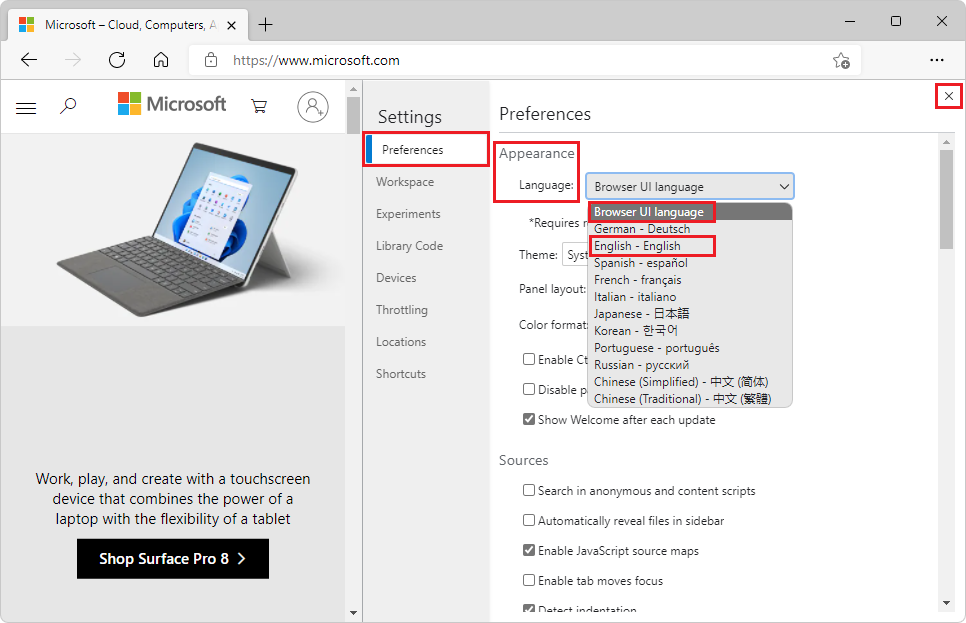
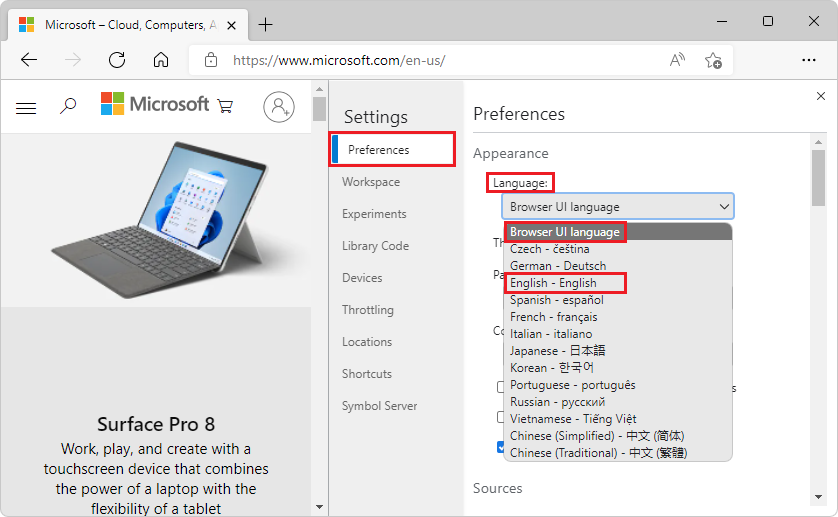
Incorp rvw cmts

diff --git a/microsoft-edge/devtools-guide-chromium/whats-new/2022/03/devtools-100.md b/microsoft-edge/devtools-guide-chromium/whats-new/2022/03/devtools-100.md
@@ -22,7 +22,7 @@ To report a problem with DevTools or ask for a new feature, file an issue at the
 <!-- Title: Head to the new DevTools repo on GitHub to send ideas, feedback, suggestions, and bugs -->
 <!-- Subtitle: You can file feedback, ask questions, and have discussions about DevTools in our GitHub repo. -->
 
-We're excited to announce the new [MicrosoftEdge/DevTools: Feedback and discussions about Microsoft Edge Developer Tools (github.com)](https://github.com/MicrosoftEdge/DevTools) repo on GitHub!  This new repo is a place for our community of developers to send us ideas, feedback, suggestions, and tips to improve DevTools. We're eager to discuss with you how DevTools can better serve your needs and meet the challenges you face every day in building great web experiences.
+We're excited to announce the new [MicrosoftEdge/DevTools](https://github.com/MicrosoftEdge/DevTools) repo on GitHub!  This new repo is a place for our community of developers to send us ideas, feedback, suggestions, and tips to improve DevTools. We're eager to discuss with you how DevTools can better serve your needs and meet the challenges you face every day in building great web experiences.
 
 ![The DevTools feedback repo.](devtools-100-images/devtools-feedback-repo.png)
 
@@ -61,7 +61,7 @@ For more information, see [Change DevTools language settings](../../../customize
 <!-- Title: You no longer have to wonder if a request was fulfilled by your service worker or cache -->
 <!-- Subtitle: The "Fulfilled by" column in the Network tool tells you how a request was fulfilled. -->
 
-In Microsoft Edge 100, the **Network** tool supports a new, **Fulfilled by** column in the request log.  The **Fulfilled by** column shows how a request was fulfilled.  If the request was fulfilled by your service worker or from the cache, that information is now tracked in the **Fulfilled by** column.  When exporting or importing the request log as a HAR file, the information in the **Fulfilled by** column is also included.
+In Microsoft Edge 100, the **Network** tool supports a new **Fulfilled by** column in the request log.  If the request was fulfilled by your service worker or from the cache, that information is now tracked in the **Fulfilled by** column.  When exporting or importing the request log as a `HAR` file, the information in the **Fulfilled by** column is also included.
 
 ![The Fulfilled By column in the request log of the Network tool.](devtools-100-images/fulfilled-by-request-log.png)
 <!--
@@ -70,7 +70,7 @@ If you don't have the **Fulfilled by** column, right-click the table headers in 
 
 To learn more about the request log in the Network tool, see [Filter requests by properties](../../../network/reference.md#display-a-log-of-requests) in _Network features reference_.  For more information about service workers, see [Service Worker improvements](../../../service-workers/index.md).
 
-For the history of this feature, see [Outlook: Add column in the Network activity log to track why resources are not loaded from DiskCache when ServiceWorker is present · Issue #16](https://github.com/MicrosoftEdge/DevTools/issues/16).
+For the history of this feature, see [Issue #16](https://github.com/MicrosoftEdge/DevTools/issues/16).
 
 
 <!-- ====================================================================== -->
@@ -81,7 +81,7 @@ For the history of this feature, see [Outlook: Add column in the Network activit
 
 When recording a performance profile, the flame chart in the **Performance** tool displays links from each event on the main thread to the corresponding JavaScript function in the **Sources** tool.  However, these links are broken when you export and import a performance profile.
 
-In Microsoft Edge 100, the links from an imported performance profile now use source maps from Azure Artifacts symbol server to map back to your familiar, original source code.
+In Microsoft Edge 100, the links from an imported performance profile now use source maps from Azure Artifacts symbol server to map back to your familiar, original source code.  The performance profile must have been exported in Microsoft Edge 100 (or greater), so that the profile includes the information that's needed to resolve source maps in the exported performance trace.
 
 ![Links from imported performance profile use source maps go to your familiar, original source code.](devtools-100-images/links-perf-profile-orig-source-code.png)
 
@@ -100,11 +100,11 @@ To get started with storing your source maps in Azure Artifacts symbol server an
 
 In previous versions of Microsoft Edge, the **Waterfall** view of requests in the **Network** tool didn't match the themes from Visual Studio Code that apply to the rest of DevTools.  In Microsoft Edge 100, this issue has been fixed.
 
-The selected theme wasn't applied in the Waterfall view:
+Before Microsoft Edge 100, the selected theme wasn't applied in the Waterfall view:
 
 ![The selected theme wasn't applied in the Waterfall view.](devtools-100-images/waterfall-view-requests-network-no-theme.png)
 
-The selected theme is now applied to the Waterfall view of requests in the Network tool:
+Now in Microsoft Edge 100, the selected theme is applied to the Waterfall view of requests in the Network tool:
 
 ![The selected theme is now applied to the Waterfall view of requests in the Network tool.](devtools-100-images/waterfall-view-requests-network.png)
 

diff --git a/microsoft-edge/devtools-guide-chromium/customize/localization.md b/microsoft-edge/devtools-guide-chromium/customize/localization.md
@@ -9,19 +9,22 @@ ms.date: 03/30/2021
 ---
 # Change DevTools language settings
 
-Your Developer Tools matches your browser language by default, if it is one of the ten languages currently supported (in addition to English):
+Your Developer Tools matches your browser language by default, if it is one of the supported languages:
 
-* Chinese (Simplified) - &#20013;&#25991;&#65288;&#31616;&#20307;&#65289;
-* Chinese (Traditional) - &#20013;&#25991;&#65288;&#32321;&#39636;&#65289;
+<!-- same order as UI, for ease of maint and matching what user sees: -->
+* Czech - Čeština
+* German - Deutsch
+* English - English
+* Spanish - espa&#241;ol
 * French – fran&#231;ais
-* German - deutsch
 * Italian - italiano
 * Japanese - &#26085;&#26412;&#35486;
 * Korean - &#54620;&#44397;&#50612;
 * Portuguese - portugu&#234;s
 * Russian – &#1088;&#1091;&#1089;&#1089;&#1082;&#1080;&#1081;
-* Spanish - espa&#241;ol
-
+* Vietnamese - Tiếng Việt
+* Chinese (Simplified) - &#20013;&#25991;&#65288;&#31616;&#20307;&#65289;
+* Chinese (Traditional) - &#20013;&#25991;&#65288;&#32321;&#39636;&#65289;
 
 The DevTools UI in Chinese:
 
